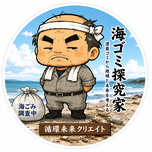
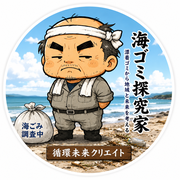
Add files via upload

diff --git a/sw.js b/sw.js
@@ -1,80 +1,25 @@
-/* ============================================================
-   海ゴミ探究ノート - Service Worker (umigomi-v4)
-   ============================================================ */
-const CACHE = 'umigomi-v4';
-const TILE_CACHE = 'umigomi-tiles-v3';
-
-const PRECACHE = [
-  '/',
-  '/manifest.json',
-  '/icons/icon-192.png',
-  '/icons/icon-512.png'
-];
-
-// インストール時：必須ファイルをキャッシュ
-self.addEventListener('install', e => {
-  e.waitUntil(
-    caches.open(CACHE).then(c => c.addAll(PRECACHE))
-  );
-});
-
-// アクティベート時：古いキャッシュ削除
-self.addEventListener('activate', e => {
-  e.waitUntil(
-    caches.keys().then(keys =>
-      Promise.all(
-        keys
-          .filter(k => k !== CACHE && k !== TILE_CACHE)
-          .map(k => caches.delete(k))
-      )
-    ).then(() => self.clients.claim())
-  );
-});
-
-// メッセージ受信（SKIP_WAITING）
-self.addEventListener('message', e => {
-  if (e.data && e.data.type === 'SKIP_WAITING') self.skipWaiting();
-});
-
-// フェッチ：Network First（地図タイルだけCache First）
-self.addEventListener('fetch', e => {
-  const url = e.request.url;
-
-  // 地図タイル（OpenStreetMap）はCache First
-  if (url.includes('tile.openstreetmap.org')) {
-    e.respondWith(
-      caches.open(TILE_CACHE).then(async c => {
-        const cached = await c.match(e.request);
-        if (cached) return cached;
-        const res = await fetch(e.request);
-        if (res && res.status === 200) c.put(e.request, res.clone());
-        return res;
-      }).catch(() => new Response('', { status: 503 }))
-    );
-    return;
-  }
-
-  // Firebase / 外部APIはキャッシュしない
-  if (
-    url.includes('firebaseapp.com') ||
-    url.includes('googleapis.com') ||
-    url.includes('open-meteo.com') ||
-    url.includes('gstatic.com')
-  ) {
-    e.respondWith(fetch(e.request));
-    return;
-  }
-
-  // それ以外：Network First、失敗時にキャッシュフォールバック
-  e.respondWith(
-    fetch(e.request)
-      .then(res => {
-        if (res && res.status === 200 && e.request.method === 'GET') {
-          const clone = res.clone();
-          caches.open(CACHE).then(c => c.put(e.request, clone));
-        }
-        return res;
-      })
-      .catch(() => caches.match(e.request))
-  );
-});
+{
+  "name": "海ゴミ探究ノート",
+  "short_name": "海ゴミノート",
+  "description": "海のゴミを記録・共有するアプリ",
+  "start_url": "/",
+  "scope": "/",
+  "display": "standalone",
+  "background_color": "#0A1628",
+  "theme_color": "#0EA5A0",
+  "orientation": "portrait",
+  "icons": [
+    {
+      "src": "/icons/icon-192.png",
+      "sizes": "192x192",
+      "type": "image/png",
+      "purpose": "any maskable"
+    },
+    {
+      "src": "/icons/icon-512.png",
+      "sizes": "512x512",
+      "type": "image/png",
+      "purpose": "any maskable"
+    }
+  ]
+}